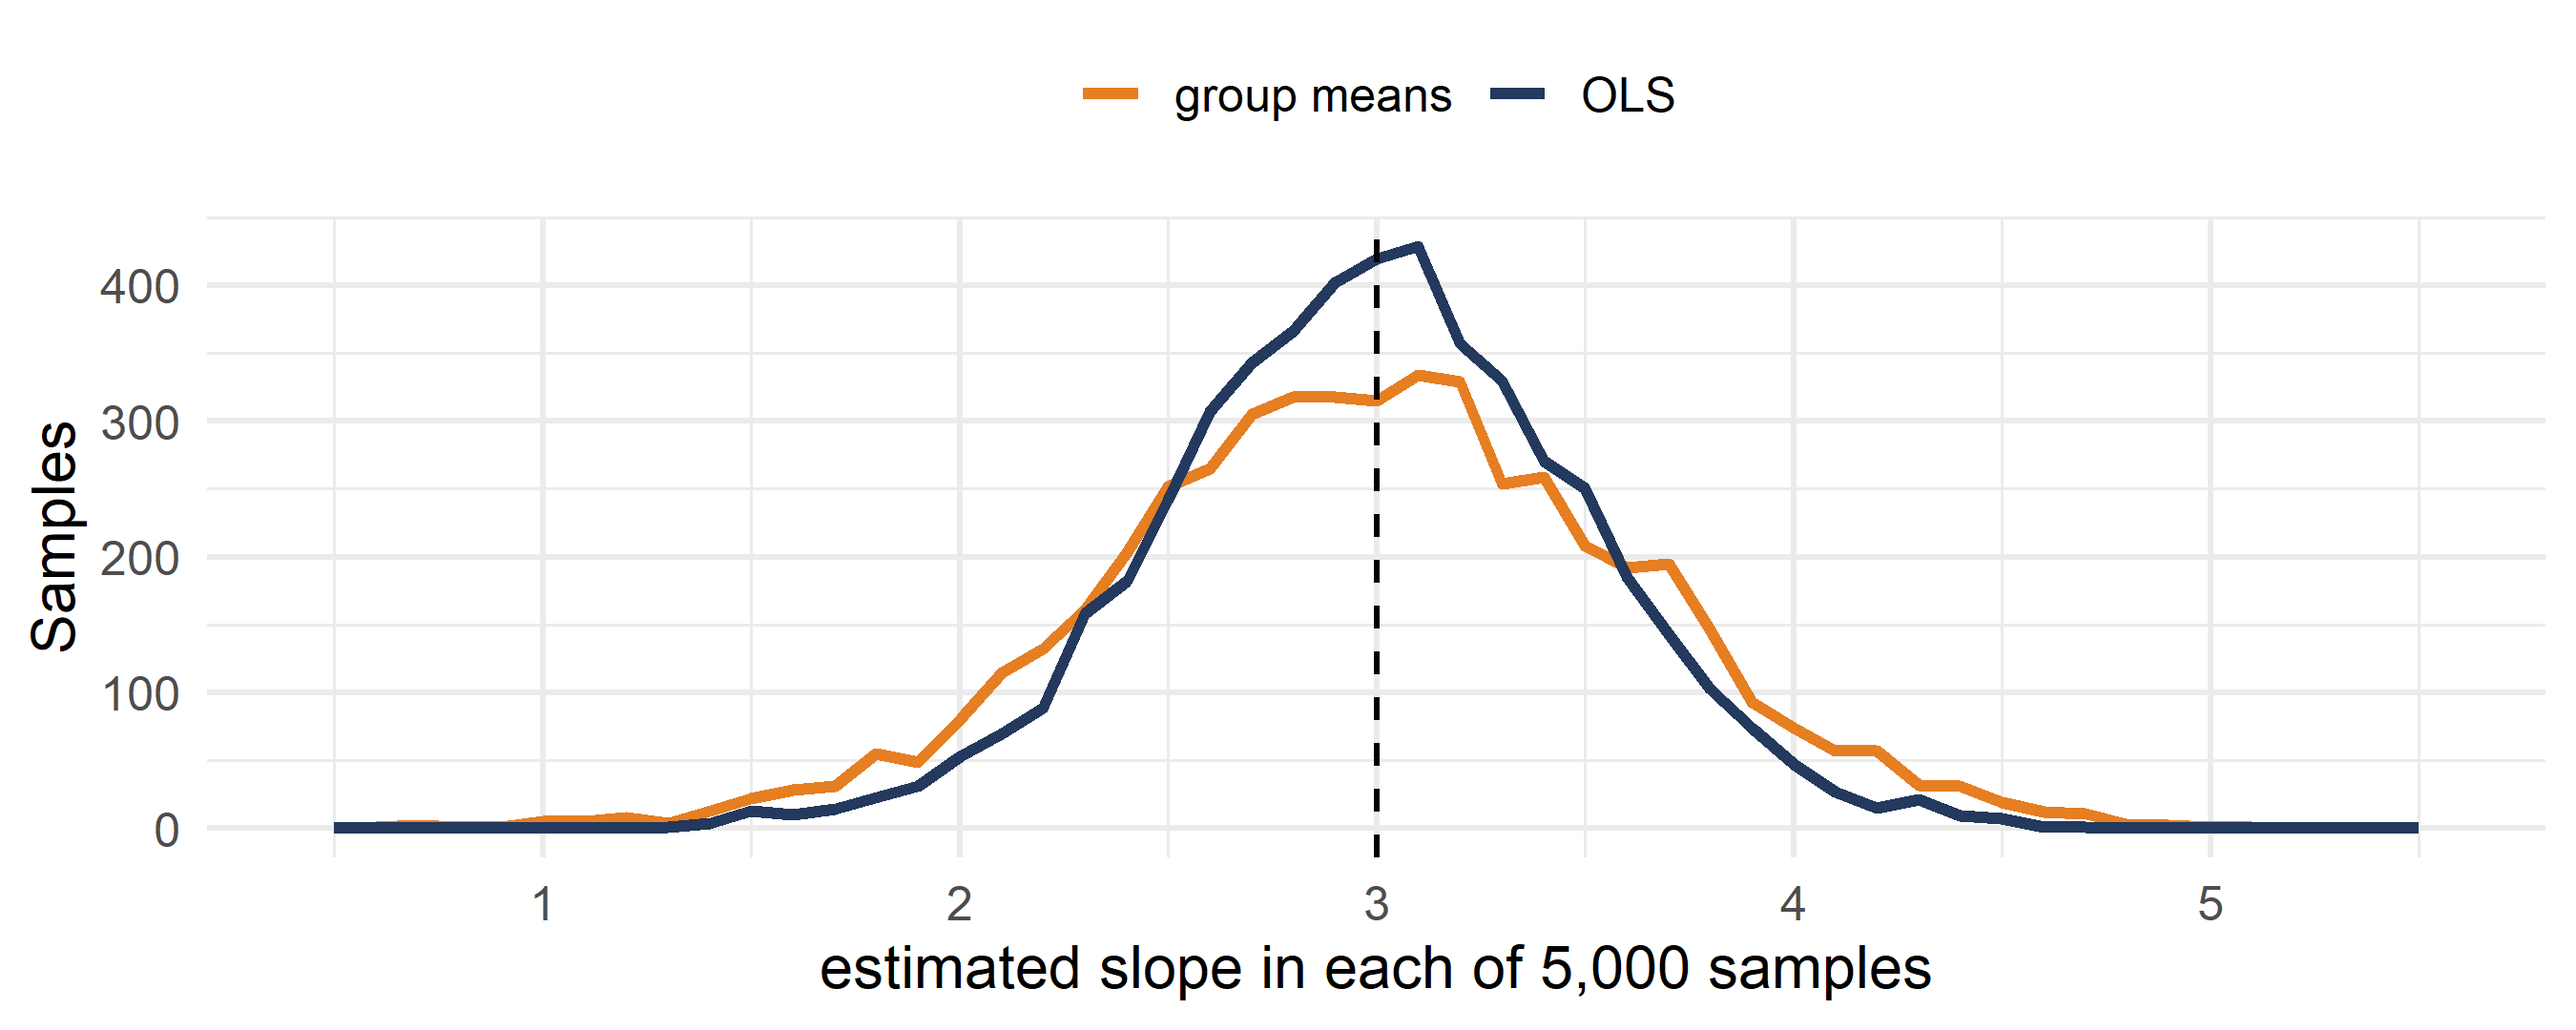
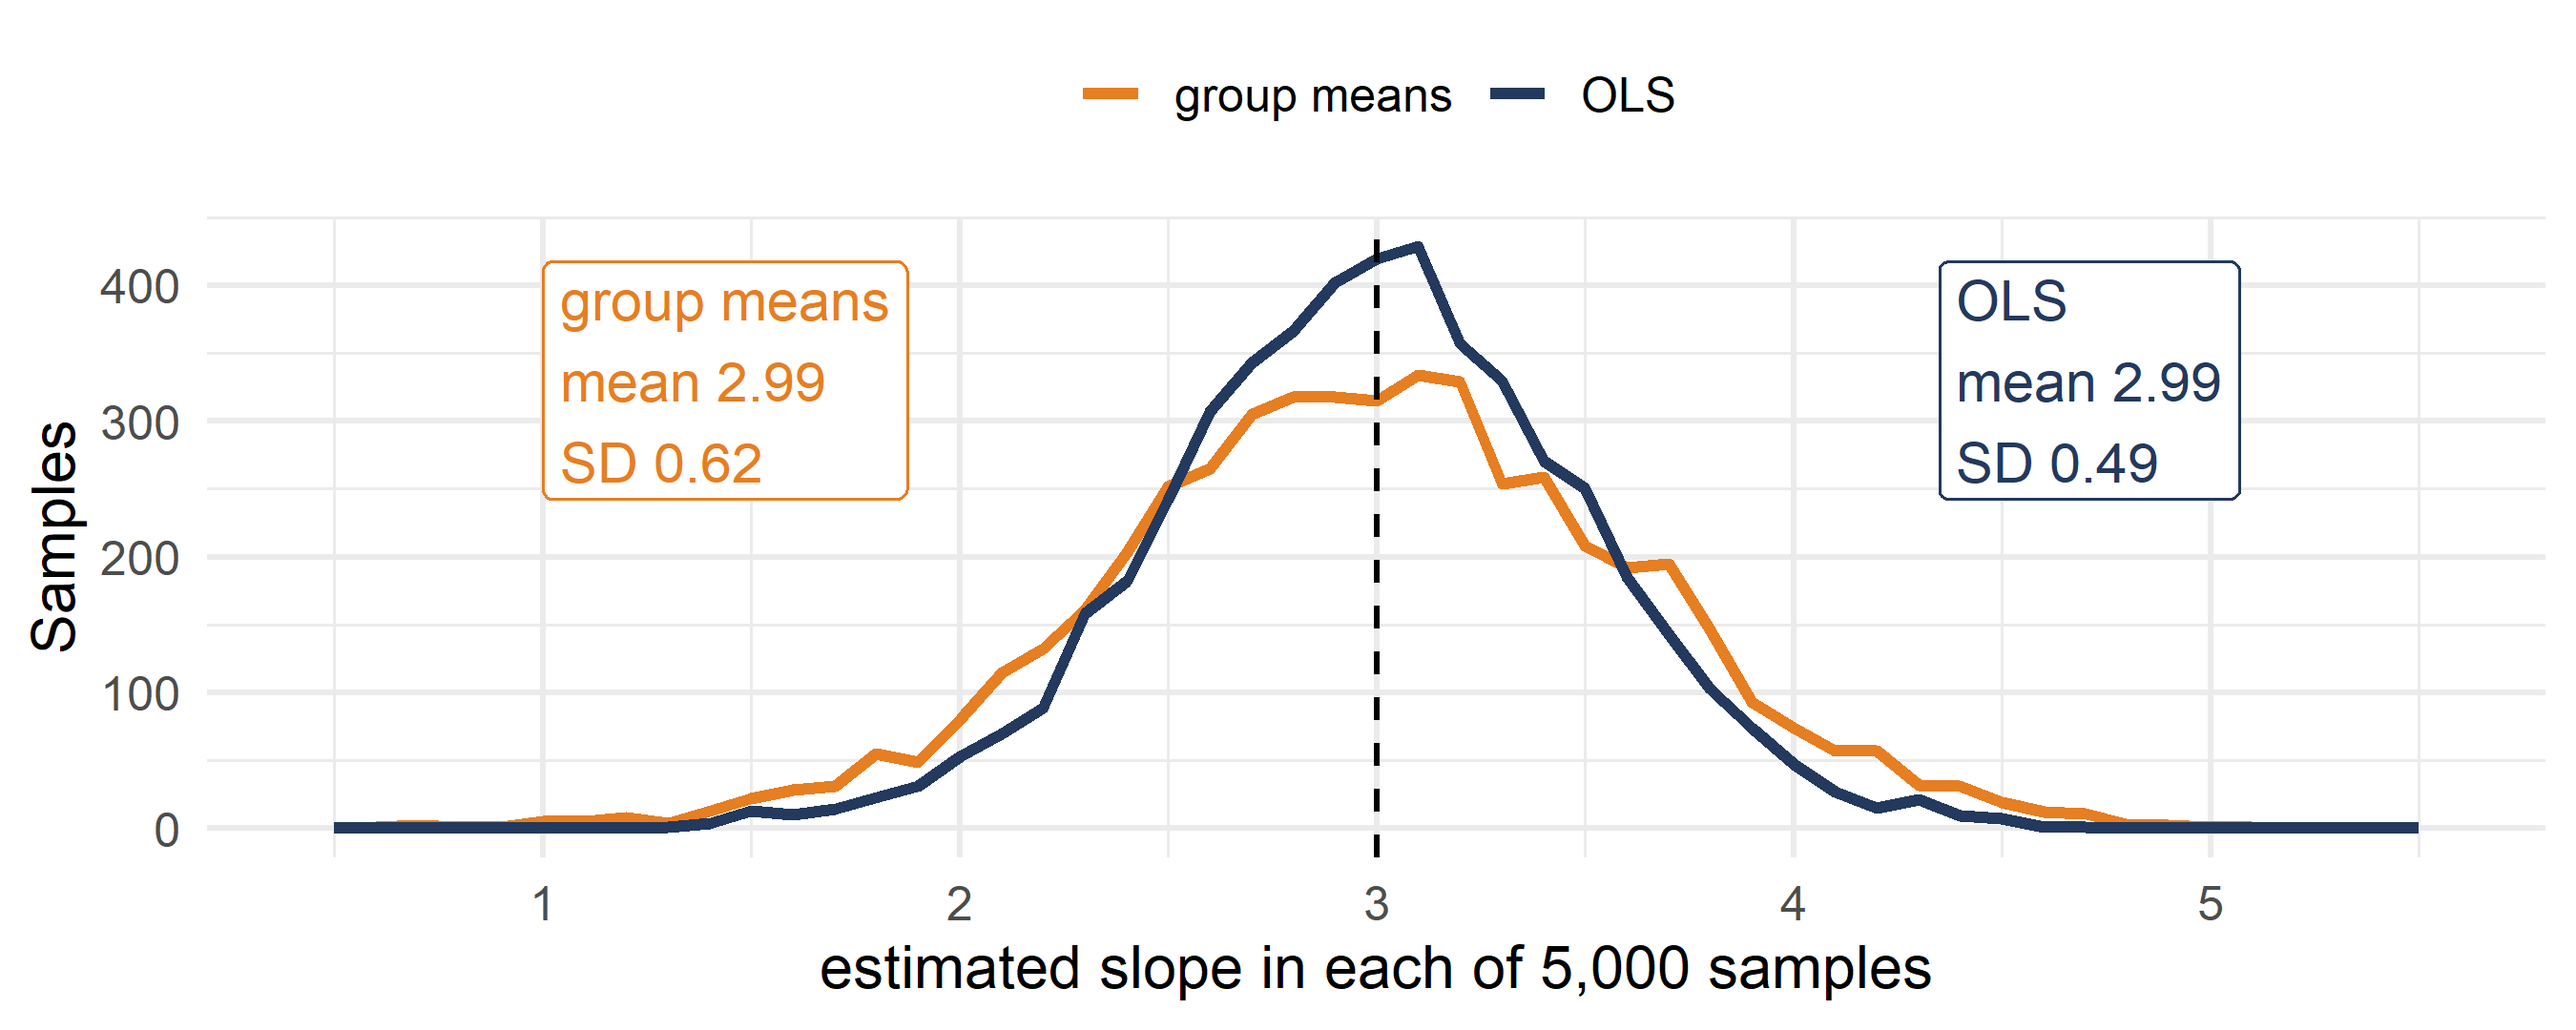
W08: group-means estimator shown analytically; 'linear' and Hansen slides to appendix; theorem picture to appendix; restore section 4 divider

diff --git a/Live/W08/W08_live.html b/Live/W08/W08_live.html
@@ -809,7 +809,7 @@ eyJhdHRyIjp7ImVkaXQiOnRydWUsImV2YWwiOnRydWUsImV4ZXJjaXNlIjoiZXgzIiwicGVyc2lzdCI6
 <p>Assumptions 1 and 2 give unbiasedness. Adding 3 and 4 gives the next result.</p>
 </div>
 </section>
-<section id="the-gaussmarkov-theorem" class="slide level2">
+<section id="gauss-markov" class="slide level2">
 <h2>The Gauss–Markov theorem</h2>
 <p>Under assumptions 1–4, among all linear and unbiased estimators, OLS has the smallest variance:</p>
 <p><span class="math display">\[\text{Var}(\hat{\beta}_1) \leq \text{Var}(\cssId{mt-btilde}{\tilde{\beta}_1}) \qquad \text{and} \qquad \text{Var}(\hat{\beta}_0) \leq \text{Var}(\tilde{\beta}_0)\]</span></p>
@@ -820,25 +820,8 @@ eyJhdHRyIjp7ImVkaXQiOnRydWUsImV2YWwiOnRydWUsImV4ZXJjaXNlIjoiZXgzIiwicGVyc2lzdCI6
 </div>
 <p>where <span class="math inline">\(\tilde{\beta}_1\)</span> and <span class="math inline">\(\tilde{\beta}_0\)</span> are any other linear and unbiased estimators.</p>
 <div class="fragment">
-<p>OLS is BLUE: the Best Linear Unbiased Estimator.</p>
+<p>OLS is BLUE: the Best Linear Unbiased Estimator. <a href="#/appendix-linear">What “linear” means</a> · <a href="#/appendix-hansen">An update from 2022</a></p>
 </div>
-</section>
-<section id="what-the-theorem-means-in-a-picture" class="slide level2">
-<h2>What the theorem means, in a picture</h2>
-<div class="cell">
-<div class="cell-output-display">
-<div>
-<figure>
-<p><img data-src="W08_live_files/figure-revealjs/gm-picture-1.png" style="width:100.0%"></p>
-</figure>
-</div>
-</div>
-</div>
-<ul>
-<li class="fragment">Both curves are centred on the true slope: both estimators are unbiased.</li>
-<li class="fragment">The OLS curve is the narrowest. In any sample, OLS is the least likely to land far from the truth.</li>
-<li class="fragment">Gauss–Markov says no linear unbiased estimator has a narrower curve than OLS.</li>
-</ul>
 </section>
 <section id="another-unbiased-slope-join-the-two-group-means" class="slide level2">
 <h2>Another unbiased slope: join the two group means</h2>
@@ -861,12 +844,12 @@ eyJhdHRyIjp7ImVkaXQiOnRydWUsImV2YWwiOnRydWUsImV4ZXJjaXNlIjoiZXgzIiwicGVyc2lzdCI6
 </div>
 <ul>
 <li class="fragment">Orange: the line through the two group means, slope 2.53. Blue: OLS on the same sample, slope 2.74.</li>
-<li class="fragment">On average the group line is right too: it is linear and unbiased.</li>
+<li class="fragment">Both lines are linear in the <span class="math inline">\(y_i\)</span>, and both are unbiased: on average each lands on the true slope. Does the group line move as little as OLS? Next slide.</li>
 </ul>
 </section>
 <section id="which-one-moves-more" class="slide level2">
 <h2>Which one moves more?</h2>
-<p>Both estimators are unbiased. Draw 5,000 samples of 40 from the sampler’s population (true slope 3) and compute both slopes in every sample. Which histogram is wider?</p>
+<p>Both estimators are unbiased. Draw 5,000 samples of 40 from the sampler’s population (true slope 3) and compute both slopes in every sample. Are both centred on 3? Which curve is wider?</p>
 <div class="fragment">
 <div class="cell">
 <div class="cell-output-display">
@@ -880,39 +863,52 @@ eyJhdHRyIjp7ImVkaXQiOnRydWUsImV2YWwiOnRydWUsImV4ZXJjaXNlIjoiZXgzIiwicGVyc2lzdCI6
 </div>
 <div class="fragment">
 <p>Both average 3: OLS 2.99, group means 2.99. But the standard deviation is 0.49 for OLS and 0.62 for the group line, about 26% more. The group line throws away how far each point sits from the centre; OLS uses it.</p>
+<p>Unbiased is not enough. Among linear unbiased estimators, OLS has the smallest variance. <a href="#/appendix-gm-picture">The theorem in a picture</a>.</p>
 </div>
 </section>
-<section id="what-linear-means-here" class="slide level2">
-<h2>What “linear” means here</h2>
-<p>A linear estimator is a weighted sum of the <span class="math inline">\(y_i\)</span>:</p>
-<p><span class="math display">\[\tilde{\beta}_1 = \sum_i \cssId{mt-ci}{c_i}\, y_i\]</span></p>
+<section id="why-on-paper" class="slide level2">
+<h2>Why, on paper</h2>
+<p>Write <span class="math inline">\(D = \bar{x}_{high} - \bar{x}_{low}\)</span>, with <span class="math inline">\(n/2\)</span> points in each group. Put <span class="math inline">\(y_i = \beta_0 + \beta_1 x_i + u_i\)</span> into the group line:</p>
+<p><span class="math display">\[\tilde{\beta}_1 = \frac{\bar{y}_{high} - \bar{y}_{low}}{D}
+= \beta_1 + \frac{\cssId{mt-ubar}{\bar{u}_{high} - \bar{u}_{low}}}{D}\]</span></p>
 <div class="mathtips">
 <ul>
-<li class="fragment">ci: A weight for each observation. It may depend on the x values, but never on the y values.</li>
+<li class="fragment">ubar: The average error in each group. Each has expected value zero, so their difference does too.</li>
 </ul>
 </div>
 <div class="fragment">
-<p>OLS is one of them. Since <span class="math inline">\(\sum (x_i - \bar{x})\bar{y} = 0\)</span>:</p>
-<p><span class="math display">\[\hat{\beta}_1 = \frac{\sum (x_i - \bar{x})(y_i - \bar{y})}{\sum (x_i - \bar{x})^2}
-= \frac{\sum (x_i - \bar{x})\, y_i}{\sum (x_i - \bar{x})^2}
-\qquad \text{so} \qquad \cssId{mt-cols}{c_i^{OLS} = \frac{x_i - \bar{x}}{S_{xx}}}\]</span></p>
-<div class="mathtips">
-<ul>
-<li class="fragment">cols: The OLS weight on observation i. Positive to the right of the mean of x, negative to the left, and largest in size at the extremes.</li>
-</ul>
-</div>
+<p>Unbiased: <span class="math inline">\(E(\bar{u}_{high} - \bar{u}_{low}) = 0\)</span>, so <span class="math inline">\(E(\tilde{\beta}_1) = \beta_1\)</span>.</p>
 </div>
 <div class="fragment">
-<p>Points far from <span class="math inline">\(\bar{x}\)</span> get the biggest weights. That is the plank from the slider slide again.</p>
+<p>Variance: each group mean of <span class="math inline">\(n/2\)</span> errors has variance <span class="math inline">\(\sigma^2/(n/2)\)</span>, so</p>
+<p><span class="math display">\[\text{Var}(\tilde{\beta}_1) = \frac{4\sigma^2}{n D^2}
+\qquad \text{against} \qquad
+\text{Var}(\hat{\beta}_1) = \frac{\sigma^2}{\cssId{mt-sxxgm}{S_{xx}}}\]</span></p>
 </div>
-</section>
-<section id="an-update-from-2022" class="slide level2">
-<h2>An update from 2022</h2>
+<div class="mathtips">
 <ul>
-<li class="fragment">Science is still moving on this theorem.</li>
-<li class="fragment">A 2022 paper by Bruce Hansen shows that the word “linear” is not needed.</li>
-<li class="fragment">Under our assumptions, OLS is the best unbiased estimator of any kind: BUE, not only BLUE.</li>
+<li class="fragment">sxxgm: The spread of x around its mean, summed over all n points: the sum of squared deviations.</li>
 </ul>
+</div>
+<div class="fragment">
+<p>Split <span class="math inline">\(S_{xx}\)</span> into the spread inside each group plus the spread between the two group means:</p>
+<p><span class="math display">\[S_{xx} = \cssId{mt-within}{\text{within}} + \frac{n D^2}{4} \;\geq\; \frac{n D^2}{4}
+\quad\Longrightarrow\quad
+\text{Var}(\hat{\beta}_1) = \frac{\sigma^2}{S_{xx}} \leq \frac{4\sigma^2}{n D^2} = \text{Var}(\tilde{\beta}_1)\]</span></p>
+</div>
+<div class="mathtips">
+<ul>
+<li class="fragment">within: How far the points sit from their own group mean, squared and summed. OLS uses this information; the group line throws it away.</li>
+</ul>
+</div>
+<div class="fragment">
+<p>The group line ignores where points sit inside their group. OLS uses it, so its variance is smaller, unless every point in a group has the same <span class="math inline">\(x\)</span>.</p>
+</div>
+</section></section>
+<section>
+<section id="the-shape-of-the-slopes-distribution" class="title-slide slide level1 center" data-background-color="#23395d">
+<h1>4 · The shape of the slope’s distribution</h1>
+<p>Centre and spread are settled. To test and to build intervals we also need the shape.</p>
 </section>
 <section id="what-we-have-not-needed-so-far" class="slide level2">
 <h2>What we have not needed so far</h2>
@@ -2912,6 +2908,64 @@ eyJhdHRyIjp7ImVkaXQiOnRydWUsImV2YWwiOnRydWUsImV4ZXJjaXNlIjoiZXhhbTE0IiwicGVyc2lz
 <section id="appendix-optional" class="title-slide slide level1 center" data-background-color="#23395d">
 <h1>Appendix — optional</h1>
 <p>The algebra behind the results in the main flow.</p>
+</section>
+<section id="appendix-linear" class="slide level2">
+<h2>Appendix — what “linear” means here</h2>
+<p>A linear estimator is a weighted sum of the <span class="math inline">\(y_i\)</span>:</p>
+<p><span class="math display">\[\tilde{\beta}_1 = \sum_i \cssId{mt-ci}{c_i}\, y_i\]</span></p>
+<div class="mathtips">
+<ul>
+<li class="fragment">ci: A weight for each observation. It may depend on the x values, but never on the y values.</li>
+</ul>
+</div>
+<div class="fragment">
+<p>OLS is one of them. Since <span class="math inline">\(\sum (x_i - \bar{x})\bar{y} = 0\)</span>:</p>
+<p><span class="math display">\[\hat{\beta}_1 = \frac{\sum (x_i - \bar{x})(y_i - \bar{y})}{\sum (x_i - \bar{x})^2}
+= \frac{\sum (x_i - \bar{x})\, y_i}{\sum (x_i - \bar{x})^2}
+\qquad \text{so} \qquad \cssId{mt-cols}{c_i^{OLS} = \frac{x_i - \bar{x}}{S_{xx}}}\]</span></p>
+<div class="mathtips">
+<ul>
+<li class="fragment">cols: The OLS weight on observation i. Positive to the right of the mean of x, negative to the left, and largest in size at the extremes.</li>
+</ul>
+</div>
+</div>
+<div class="fragment">
+<p>Points far from <span class="math inline">\(\bar{x}\)</span> get the biggest weights. That is the plank from the slider slide again.</p>
+</div>
+<div class="fragment">
+<p><a href="#/gauss-markov">← Back to the Gauss–Markov theorem</a></p>
+</div>
+</section>
+<section id="appendix-hansen" class="slide level2">
+<h2>Appendix — an update from 2022</h2>
+<ul>
+<li class="fragment">Science is still moving on this theorem.</li>
+<li class="fragment">A 2022 paper by Bruce Hansen shows that the word “linear” is not needed.</li>
+<li class="fragment">Under our assumptions, OLS is the best unbiased estimator of any kind: BUE, not only BLUE.</li>
+</ul>
+<div class="fragment">
+<p><a href="#/gauss-markov">← Back to the Gauss–Markov theorem</a></p>
+</div>
+</section>
+<section id="appendix-gm-picture" class="slide level2">
+<h2>Appendix — the theorem in a picture</h2>
+<div class="cell">
+<div class="cell-output-display">
+<div>
+<figure>
+<p><img data-src="W08_live_files/figure-revealjs/gm-picture-1.png" style="width:100.0%"></p>
+</figure>
+</div>
+</div>
+</div>
+<ul>
+<li class="fragment">Both curves are centred on the true slope: both estimators are unbiased.</li>
+<li class="fragment">The OLS curve is the narrowest. In any sample, OLS is the least likely to land far from the truth.</li>
+<li class="fragment">Gauss–Markov says no linear unbiased estimator has a narrower curve than OLS.</li>
+</ul>
+<div class="fragment">
+<p><a href="#/which-one-moves-more">← Back to Which one moves more?</a></p>
+</div>
 </section>
 <section id="appendix-changing-units" class="slide level2">
 <h2>Appendix — changing the units, again</h2>
